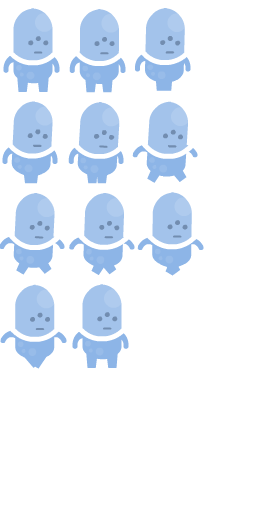
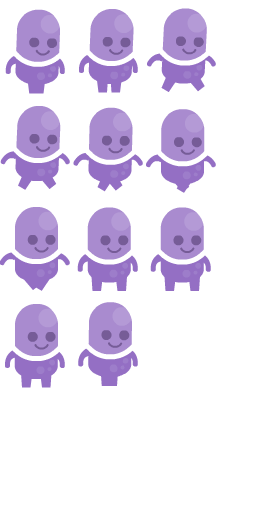
spritesheet transition for walk cycle

diff --git a/MIG_SFML_WINDOWS/State/AnimatedEntity.cpp b/MIG_SFML_WINDOWS/State/AnimatedEntity.cpp
@@ -10,11 +10,17 @@ sf::Rect<int> AnimatedEntity::getCurrentFrameRect()
 		return m_spriteRect;
 	else
 	{
-		sf::Rect<int> newTextRect;
+		sf::Rect<int> newTextRect = m_spriteRect;
 		int numSpritesPerRow = floor(m_sprite.getTexture()->getSize().x / m_spriteRect.width);
-		int currRowNum = (m_currentFrame + 1) % numSpritesPerRow;
+		int currRowNum = m_currentFrame / numSpritesPerRow;
+		int currColNum = m_currentFrame % numSpritesPerRow;
 
-		return m_spriteRect;
+		newTextRect.top = currRowNum * m_spriteRect.height;
+		newTextRect.height = m_spriteRect.height;
+		newTextRect.left = currColNum * m_spriteRect.width;
+		newTextRect.width = m_spriteRect.width;
+
+		return newTextRect;
 	}
 	//TODO - else calculate the spritesheet frame new rect
 }

diff --git a/MIG_SFML_WINDOWS/Base/Application.cpp b/MIG_SFML_WINDOWS/Base/Application.cpp
@@ -17,7 +17,7 @@ void Application::Init()
 	m_bgTextures.AddTexture("Art/cloud4.png");
 	m_bgTextures.AddTexture("Art/cloud6.png");
 
-	m_playerTextures.AddSpritesheetTexture("Art/Players/p1_walk.png", sf::Rect<int>(0,0,67,92));
+	m_playerTextures.AddSpritesheetTexture("Art/Players/p1_walk.png", sf::Rect<int>(0,0,72,96));
 
 	m_bgRenderer = BackgroundRenderer(&m_bgTextures, &m_window);
 	m_mainWorld = World(&m_playerTextures, &m_window);

diff --git a/MIG_SFML_WINDOWS/State/World.cpp b/MIG_SFML_WINDOWS/State/World.cpp
@@ -6,7 +6,7 @@ World::World(TextureLibrary* worldTextures, sf::RenderWindow* window) : BaseLoop
 {
 	m_window = window;
 
-	AddPlayer(0, 0, 0, worldTextures->getAnimatedTexture(0));
+	AddPlayer(100, 200, 0, worldTextures->getAnimatedTexture(0));
 }
 
 
